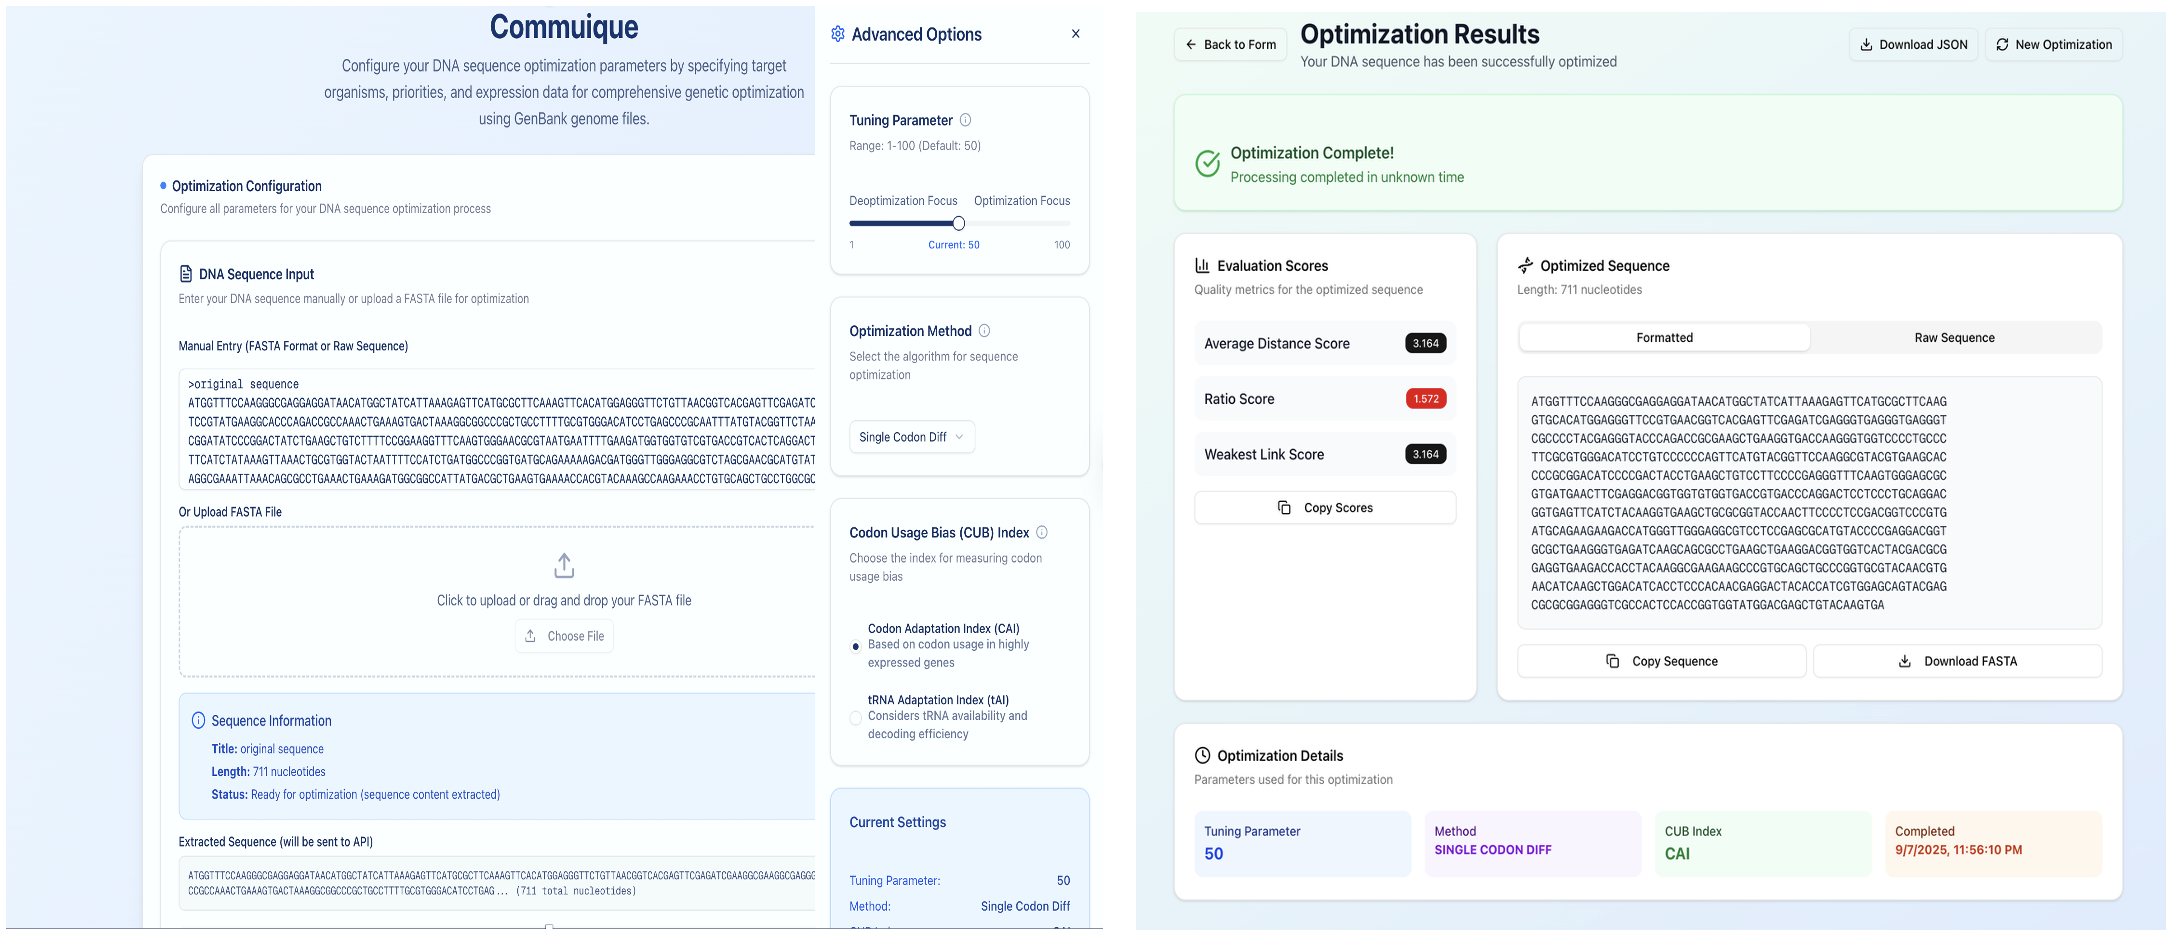
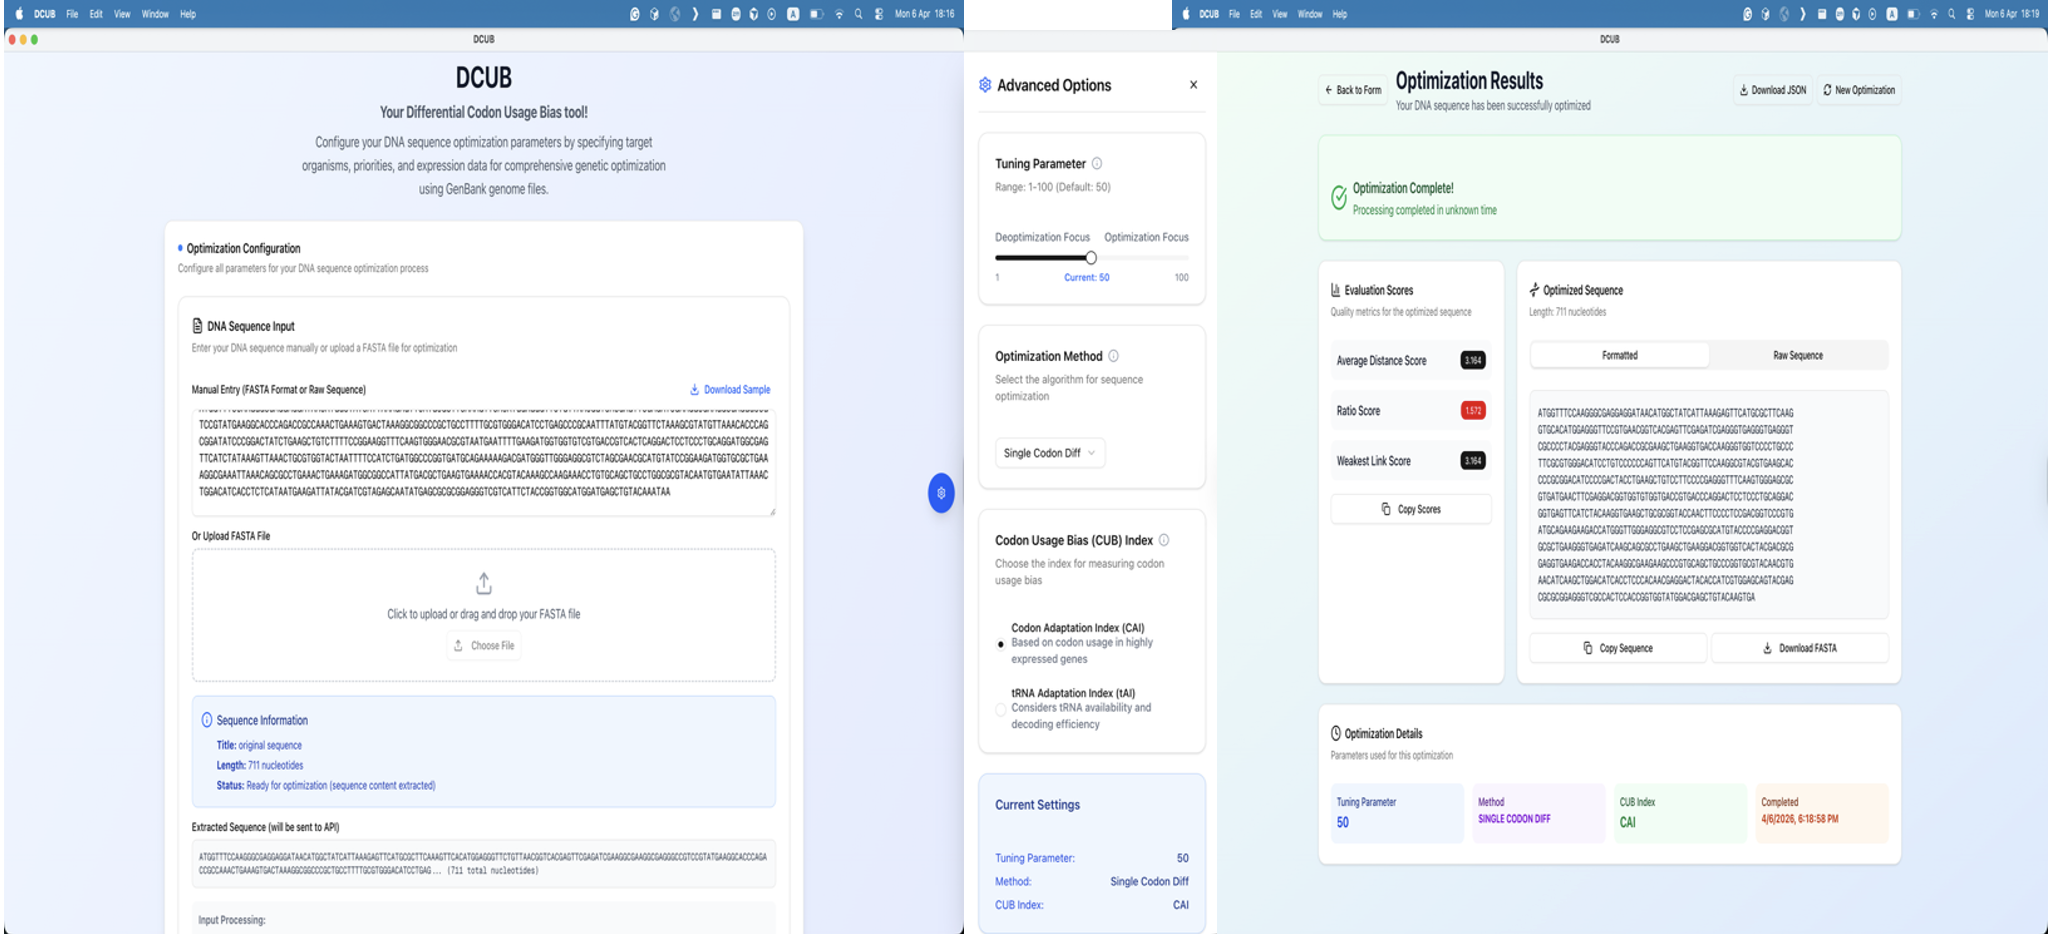
Fix macOS build

diff --git a/docs/index.html b/docs/index.html
@@ -118,10 +118,10 @@
             <h2 class="text-3xl font-bold mb-12 text-center text-slate-800">Download Center</h2>
             <div class="grid md:grid-cols-3 gap-8">
                 <div class="bg-white border border-slate-200 p-8 rounded-lg flex flex-col items-center text-center hover:border-indigo-300 transition">
-                    <span class="text-[10px] font-bold text-indigo-500 uppercase tracking-widest mb-4">Apple Ecosystem</span>
-                    <h5 class="text-xl font-bold mb-2">macOS 64-bit</h5>
-                    <p class="text-slate-400 text-xs mb-8">Supports Apple Silicon & Intel</p>
-                    <a href="assets/dcub-macos-x64.dmg" class="w-full py-3 brand-gradient text-white rounded font-medium text-sm hover:opacity-90 transition">Download .dmg</a>
+                    <span class="text-[10px] font-bold text-indigo-500 uppercase tracking-widest mb-4">Apple Silicon</span>
+                    <h5 class="text-xl font-bold mb-2">macOS arm64-bit</h5>
+                    <p class="text-slate-400 text-xs mb-8">Follow instructions in the downloaded README file</p>
+                    <a href="assets/DCUB-macOS-build.zip" class="w-full py-3 brand-gradient text-white rounded font-medium text-sm hover:opacity-90 transition">Download .dmg</a>
                 </div>
 
                 <div class="bg-white border border-slate-200 p-8 rounded-lg flex flex-col items-center text-center hover:border-indigo-300 transition ring-2 ring-indigo-50 border-indigo-200">

diff --git a/docs/assets/macOS_build/README.md b/docs/assets/macOS_build/README.md
@@ -1,0 +1,11 @@
+## macOS Installation Note
+
+If macOS reports that the app is damaged and cannot be opened, run the following command in Terminal:
+
+```bash
+xattr -dr com.apple.quarantine /Applications/DCUB.app
+```
+
+After running this command, try opening the app again.
+
+
